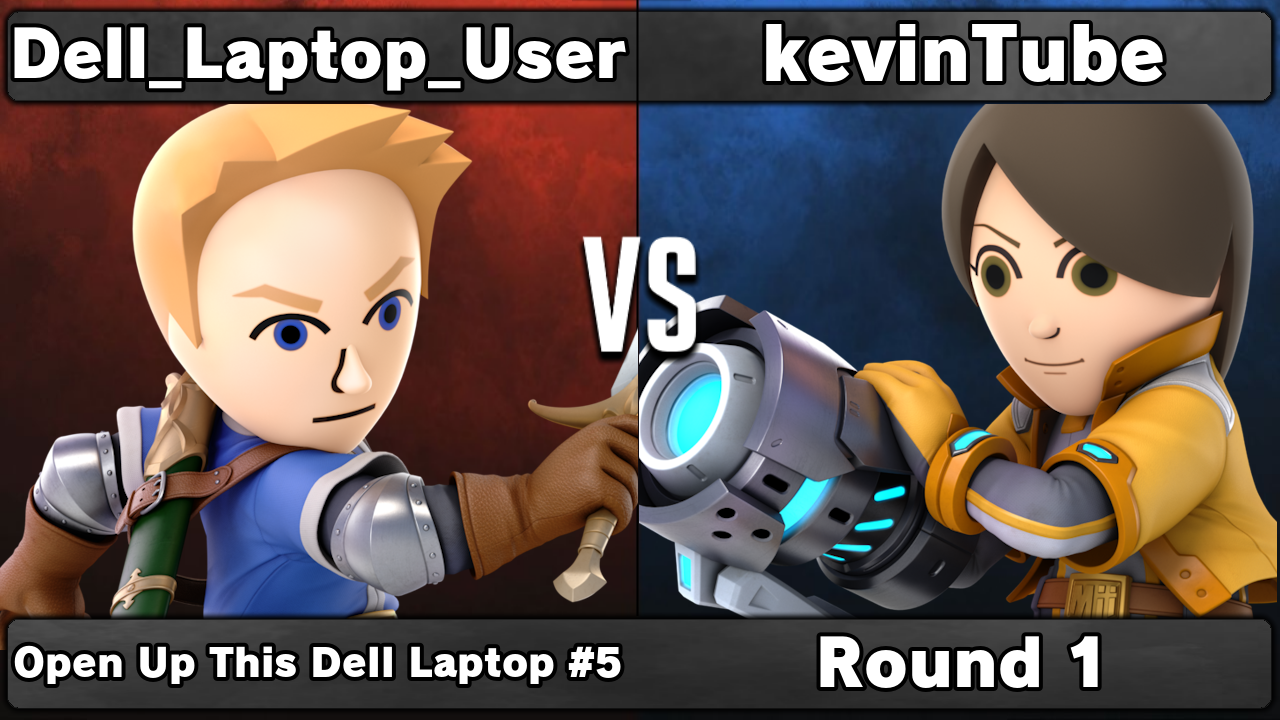
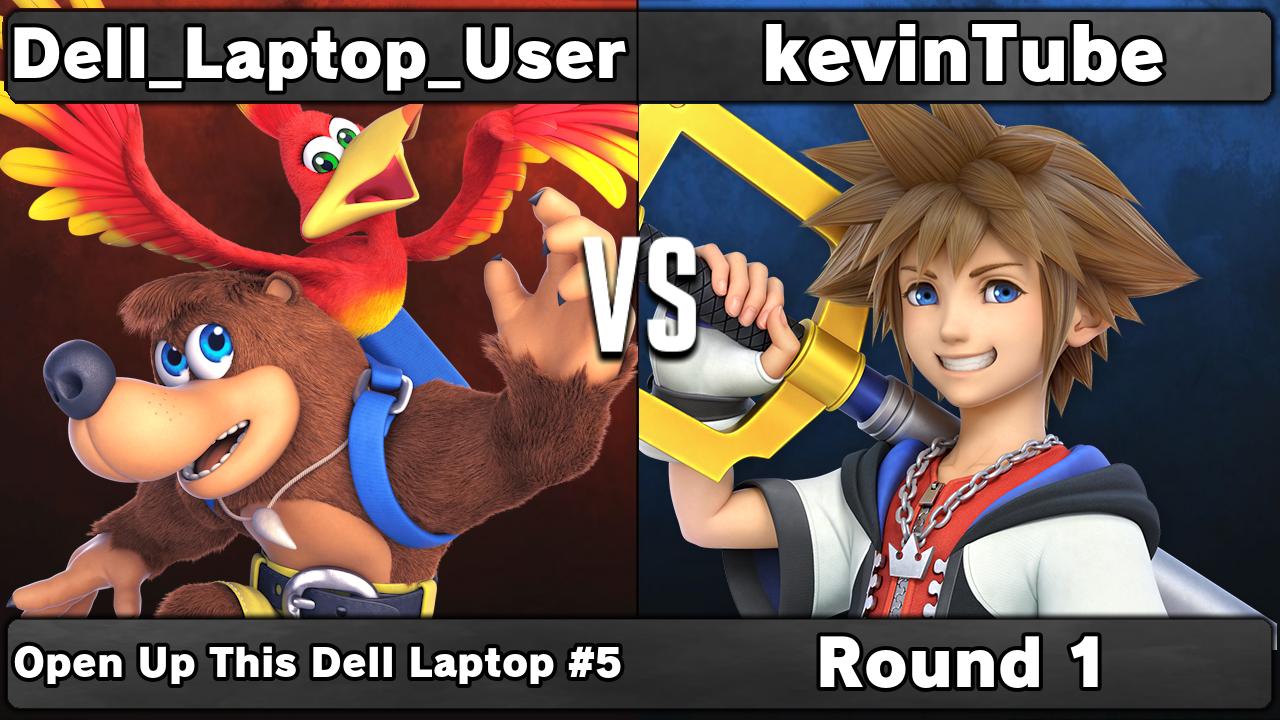
Finished adding roster images. Updated TODO list to reflect changes.

diff --git a/README.md b/README.md
@@ -8,9 +8,6 @@ Download repository and create a virtual environment. Install requirements.txt a
 
 ## TODO
 
-* Add full roster images  
-  * currently only 4 out of 86 characters
-* Replace hard-coded character list on selection boxes
 * Save with unique image filenames in a "generated_images" folder
   * currently only overwrites a single image file in the "static" folder for testing purposes
 * Different theme options
